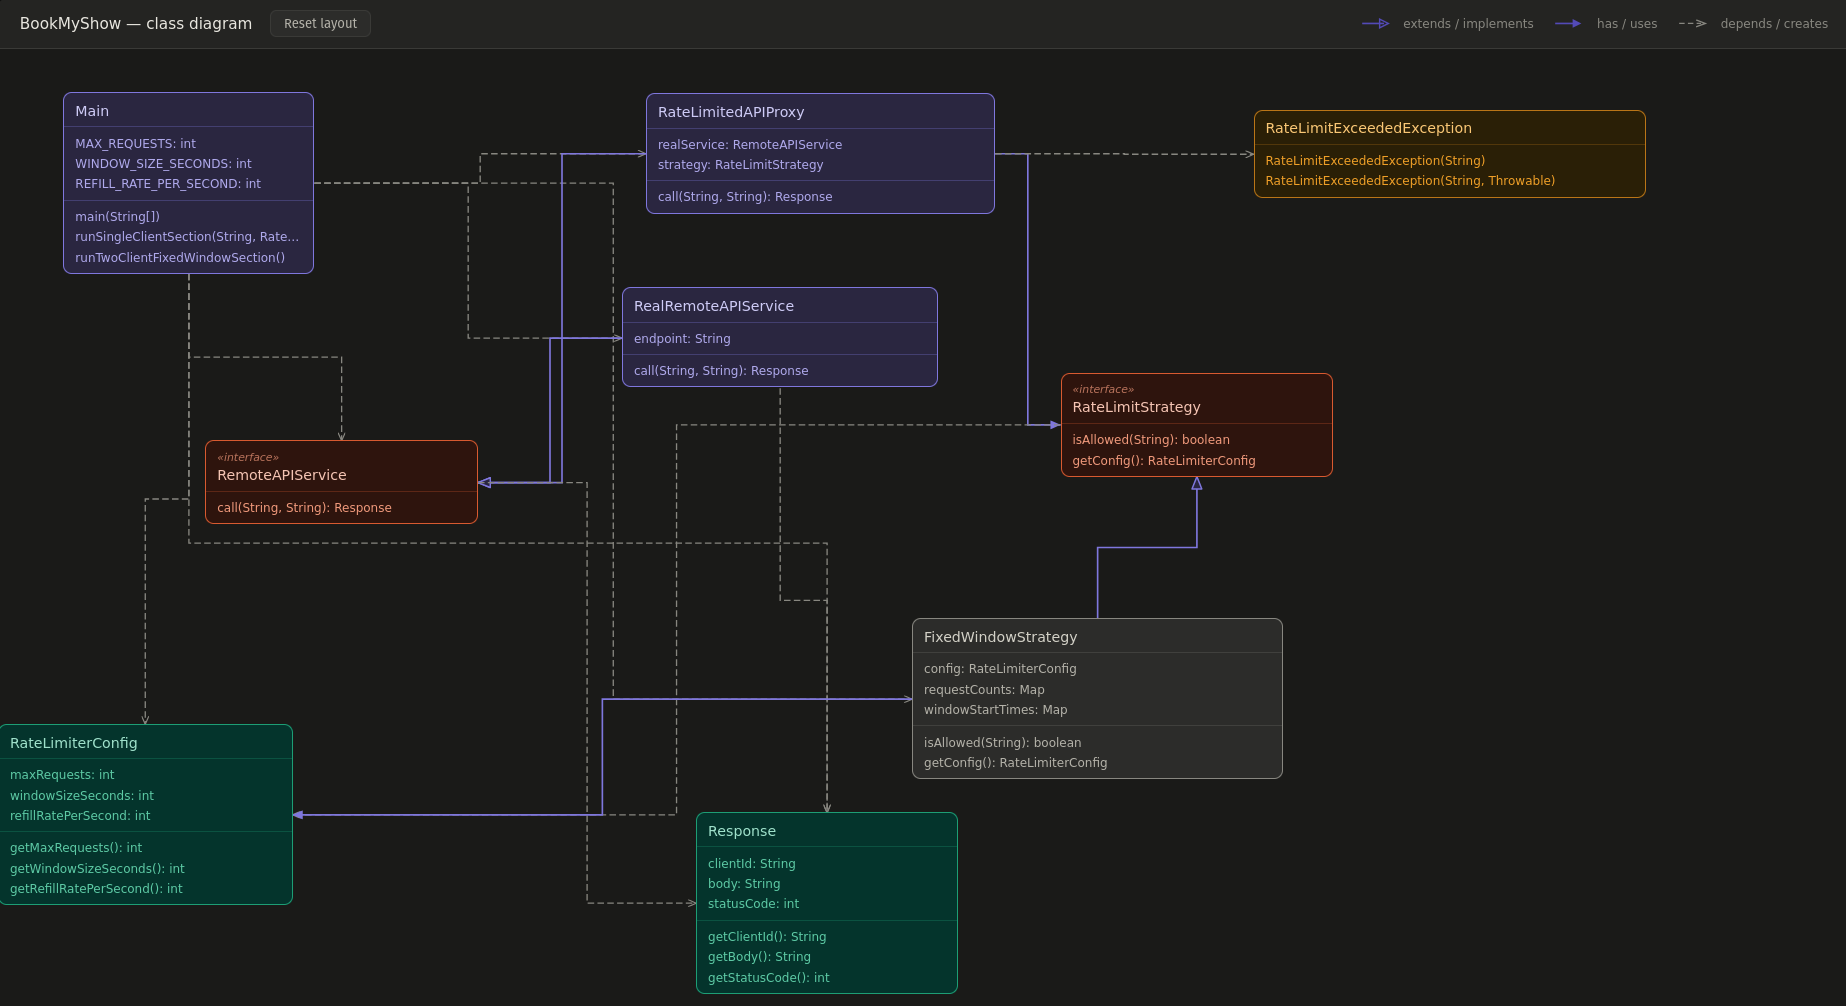
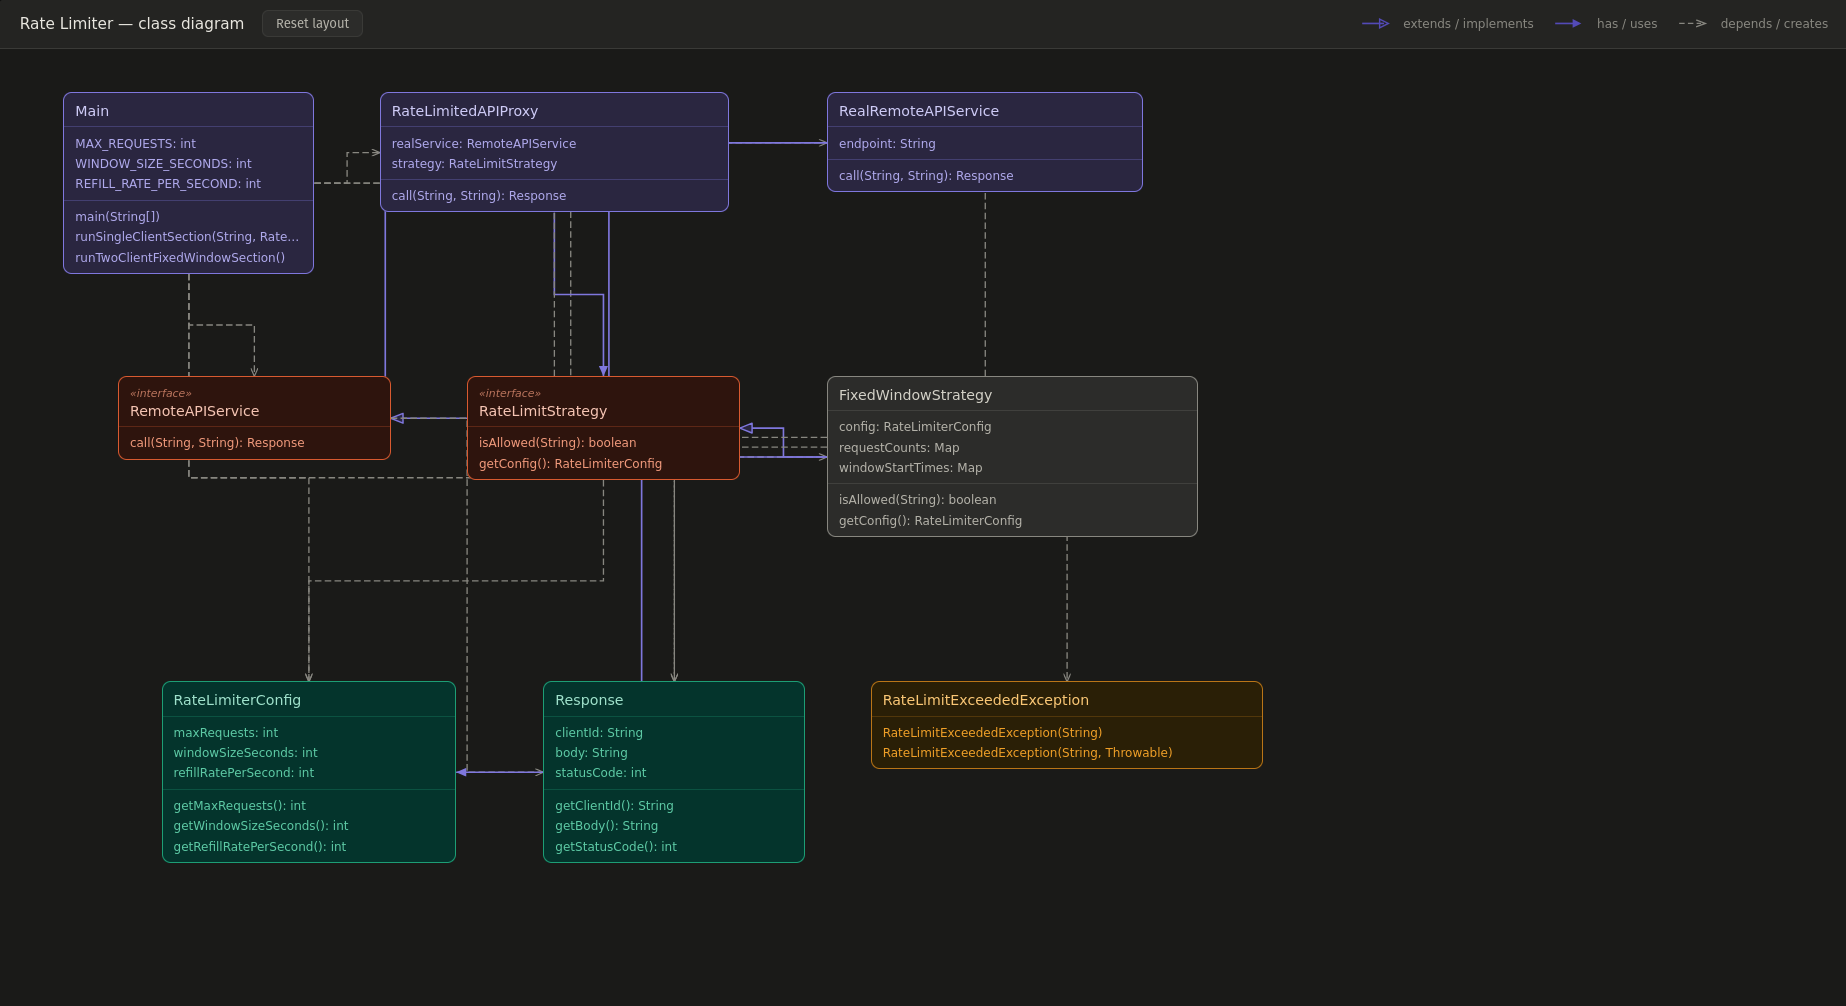
spelling mistake

diff --git a/class-diagram.html b/class-diagram.html
@@ -3,7 +3,7 @@
 <head>
     <meta charset="UTF-8">
     <meta name="viewport" content="width=device-width, initial-scale=1.0">
-    <title>BookMyShow — Class Diagram</title>
+    <title>Rate Limiter — Class Diagram</title>
     <style>
         *, *::before, *::after { box-sizing: border-box; margin: 0; padding: 0; }
         body {
@@ -58,7 +58,7 @@
 </head>
 <body>
 <header>
-    <h1>BookMyShow — class diagram</h1>
+    <h1>Rate Limiter — class diagram</h1>
     <button class="hbtn" onclick="resetLayout()">Reset layout</button>
     <div class="legend">
         <div class="legend-item">
